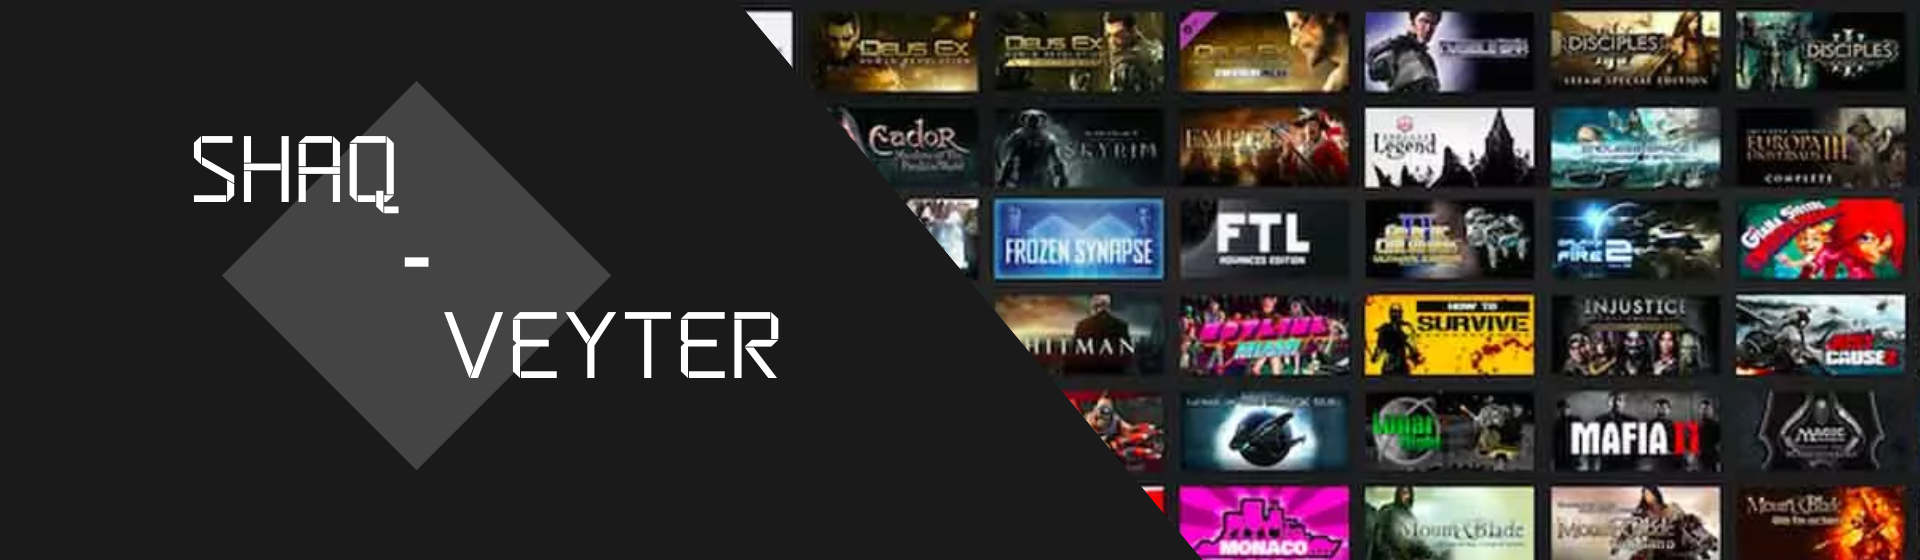
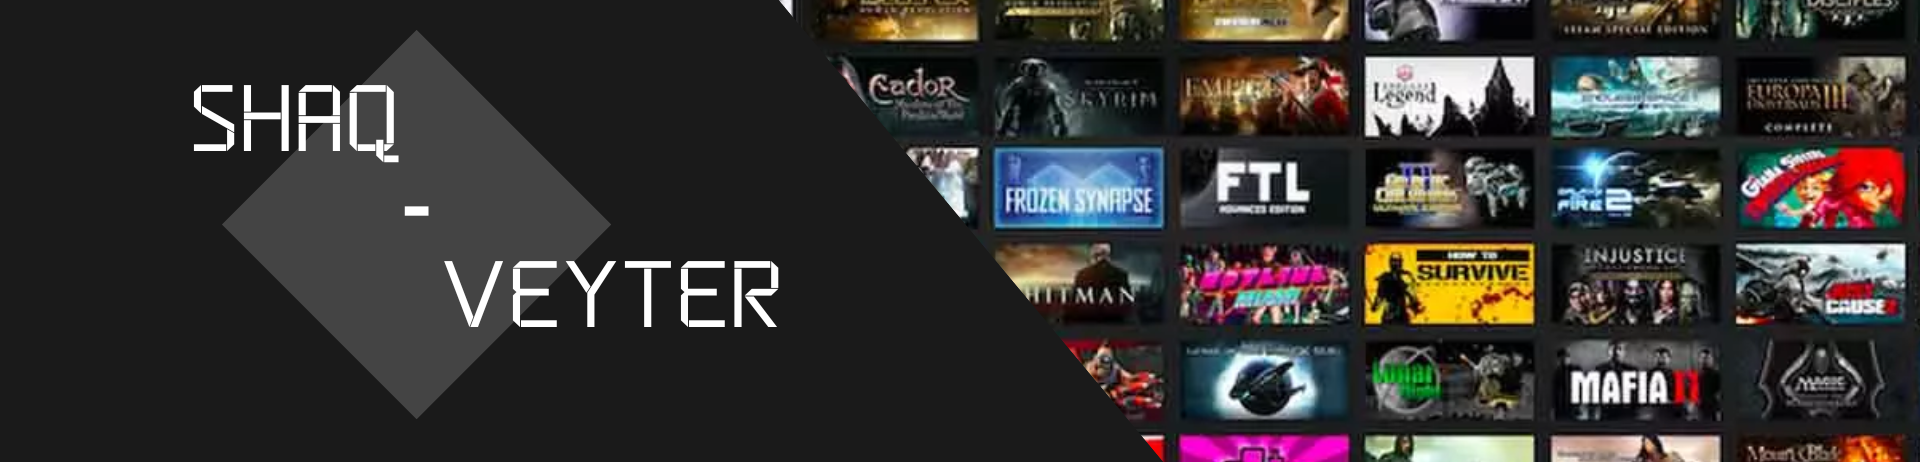
wa

diff --git a/my-vue-app/src/components/HeaderComponemts.tsx b/my-vue-app/src/components/HeaderComponemts.tsx
@@ -33,6 +33,7 @@ function HeaderComponemts() {
 
         </nav>
         <header className="header">
+            <img className="baner" src="./src/assets/Shaq.png" alt="banner" />
             <h1 className="title">Bienvenido a ShaqVeyter</h1>
             <p>
              <h4> Esta es la pagina oficial del juego el cual esta aun en desarrollo, aqui podras encontrar todo acerca de como vamos avanzando en el desarrollo de la historia y los personajes. </h4>

diff --git a/my-vue-app/src/styless/HeaderStyless.css b/my-vue-app/src/styless/HeaderStyless.css
@@ -30,3 +30,7 @@ p h4{
     margin: 11px;
     color: #f8dfde;
 }
+img.baner{
+    display: block; /* Asegura que se comporta como un bloque */
+    width: 100%; /* Ajusta la imagen al ancho completo */
+}
